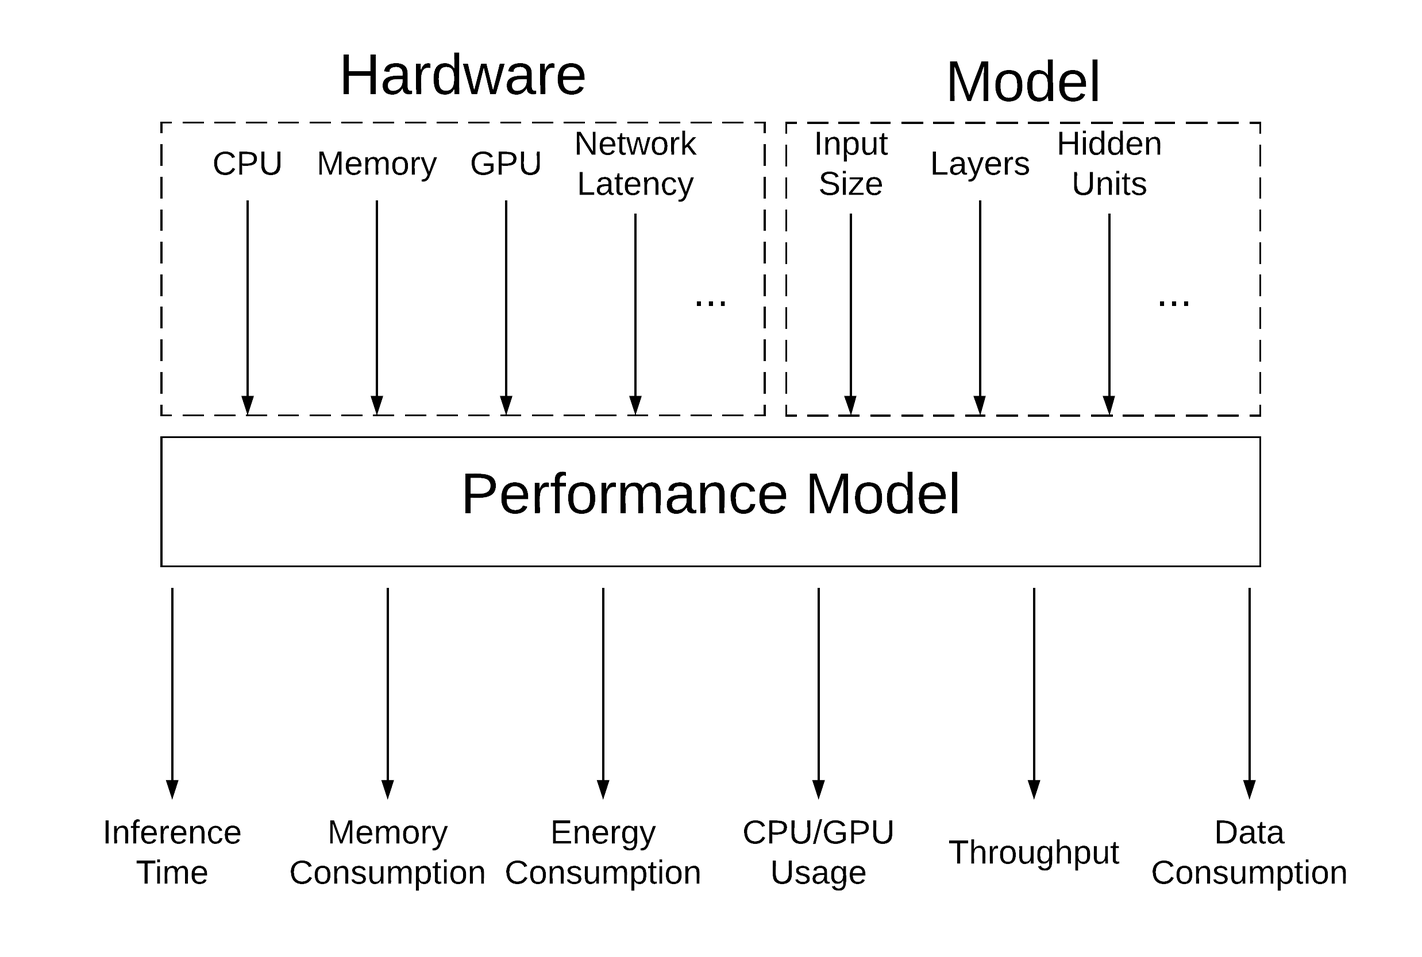
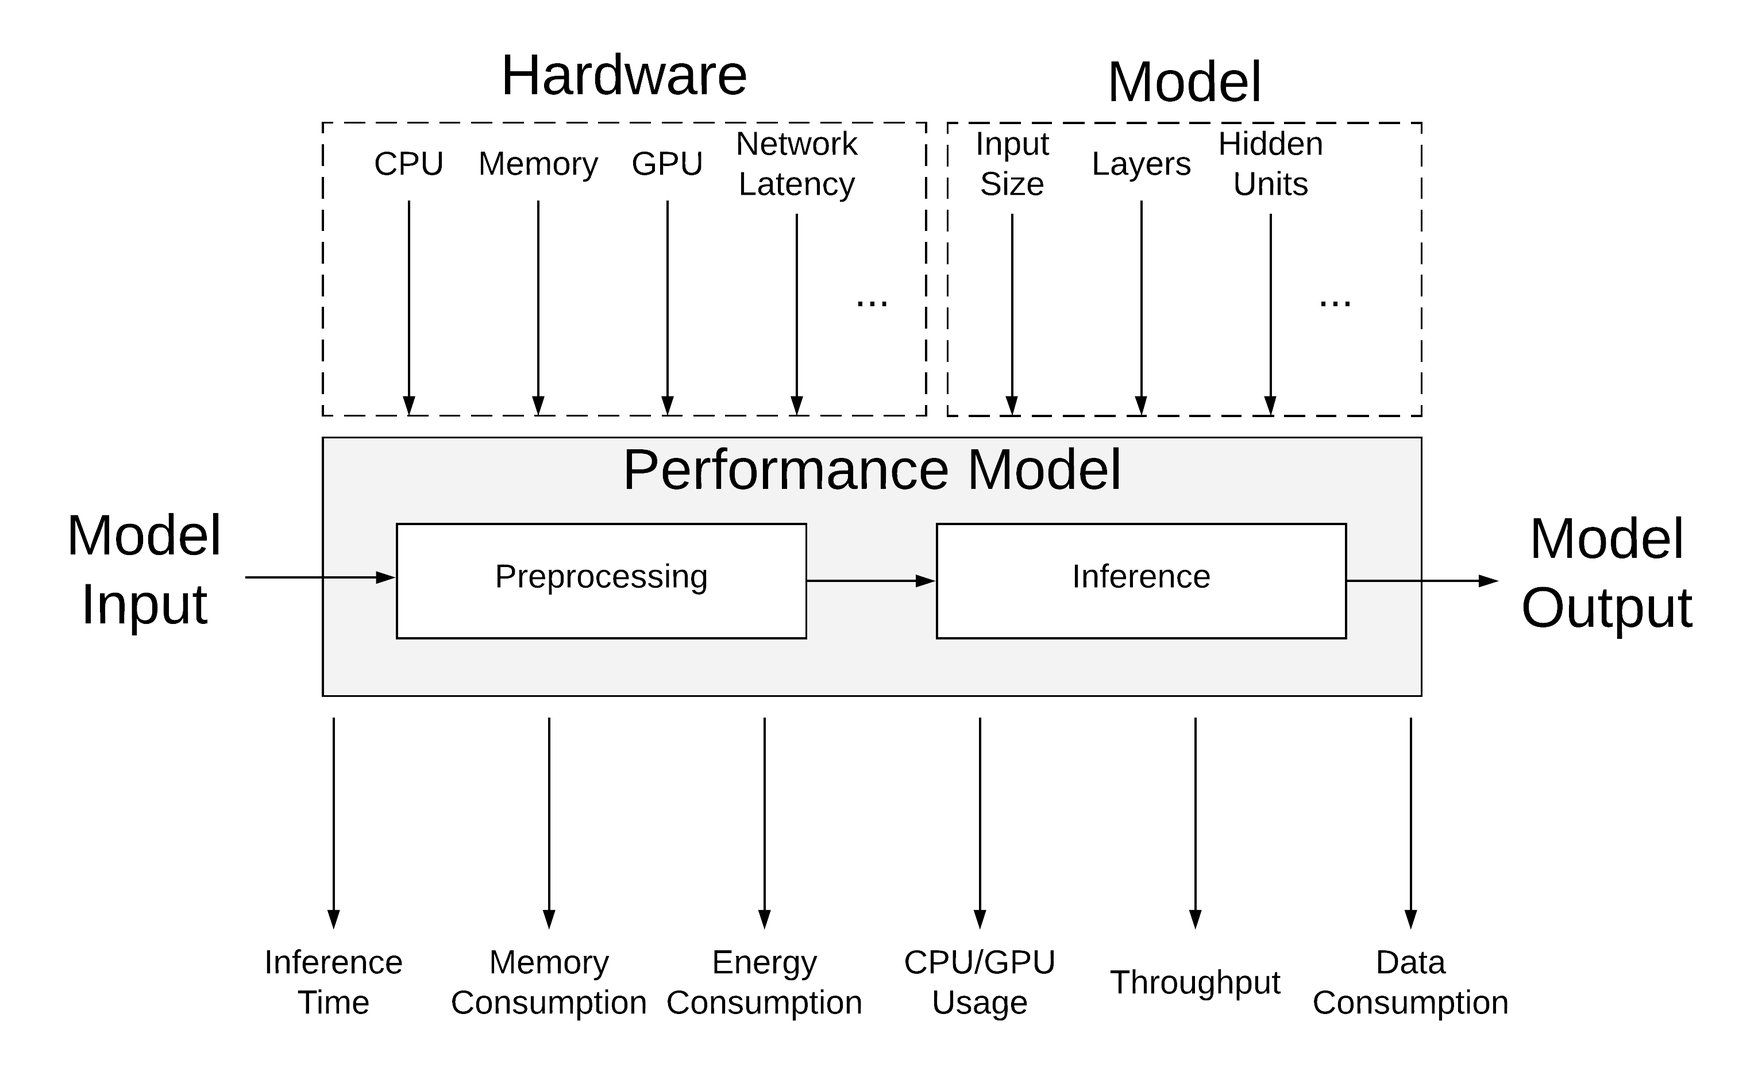
commit 5.12.18

diff --git a/kapitel1.tex b/kapitel1.tex
@@ -3,26 +3,26 @@
 
 %%ADD: android application
 
-With the success in the past years in the field of deep learning models, for example in image recognition with the help convolutional neural networks, AI applications on edge devices such as cars and smartphones using these models have become more popular and viable.
-But as the accuracy of these models has risen, the computational demands of them has also and this has taken a toll on the performance on these models apart from the accuracy, in particular on aspects such as inference time, memory usage, energy consumption, CPU usage and throughput. 
-While inference time and throughput are the most essential metrics to ensure realtime AI, memory usage, energy consumption and CPU usage are also important in order to avoid that one application occupies the whole system or uses too much energy.
-This is a concern especially for edge devices, where hardware or energy with mobile devices is often limited and that is why the question arose whether the models should be deployed directly on the edge devices or on a cloud-backend where more computational power is available. 
-%To answer this question this thesis proposes a performance model which points out the trade-offs of these two deployment options and after several experiments gives recommendations that support users in their decision to select the right model and hardware configuration.
+With success in the past years in the field of deep learning models, for example in image recognition with the help convolutional neural networks, AI applications on edge devices such as cars and smartphones using these models have become more popular and viable.
+However, as the accuracy of these models has risen, the computational demands of them has also, and this has taken a toll on the performance on these models apart from the accuracy, in particular on aspects such as inference time, memory usage, energy consumption, CPU usage and throughput. 
+While inference time and throughput are the essential metrics to ensure real-time AI, memory usage, energy consumption and CPU usage are also crucial in order to avoid that one application occupies the whole system or uses too much energy.
+This is a concern especially for edge devices, where hardware or energy with mobile devices is often limited, and that is why the question arose whether the models should be deployed directly on the edge devices or on a cloud-backend where more computational power is available. 
 
-In order to support users in decision to select the right deployment option this thesis proposes a performance model supported by measurements conducted in real life environments.
-Therefore the two major factors on the performance are examined, the hardware specification of the deployment environment and the specification of the deep learning model. 
-There are many different neural network types like convolutional neural network or recurrent neural network, that use different operations and thus have different impacts on performance.
-For example in the case of convolutional neural networks the number of convolutional/fully-connected layers have an impact on inference time, since more layers result in more matrix multiplications needed to get a prediction.
+In order to support users in the decision to select the right deployment option this thesis proposes a performance model supported by measurements conducted in real life environments.
+Therefore the two significant factors on the performance are examined, the hardware specification of the deployment environment and the specification of the deep learning model. 
+There are many different neural network types like convolutional neural network or recurrent neural network that use different operations and thus have different impacts on performance.
+For example, in the case of convolutional neural networks (CNN), the number of convolutional/fully-connected layers have an impact on inference time, since more layers result in more matrix multiplications needed to get a prediction.
+Another aspect is the preprocessing step, which is needed to transform the input into the format required by the model. In the case of CNNs these steps often consist of image resizing and rescaling.
 This rich variety of configurations also applies to the hardware aspects, where in addition to better CPUs and GPUs a various number of specific accelerators such as TPU, neuromorphic co-processors, FPGA has been developed for both edge and cloud.
 
 
 
 
-To obtain real measurement of the above mentioned performance metrics, multiple experiments are performed, using  using state of the art image recognition models and hardware component. Therefore we developed a benchmark android application, where images can be selected and these images then get classified either on the cloud-backend or on the edge device itself.
-TensorFlow Serving and TensorFlow Lite, both open-source, will service as the example frameworks for these experiments, as they support the deployment the deep learning models to a cloud-backend (TensorFlow Serving) or directly to edge devices (TensorFlow Lite).
+To obtain real measurement of the above mentioned performance metrics, multiple experiments are performed, using state of the art image recognition models and hardware component. Therefore we developed a benchmark android application, where images can be selected, and these images then get classified either on the cloud-backend or on the edge device itself.
+TensorFlow Serving and TensorFlow Lite, both open-source, will serve as the example frameworks for these experiments, as they support the deployment the deep learning models to a cloud-backend (TensorFlow Serving) or directly to edge devices (TensorFlow Lite).
 
 
 \section{Structure of the Thesis}
-The rest of this thesis is structured as follows: Chapter 2 provides an outline over existing related work on this topic. Next, a methodology in the form of a performance model, that characterizes the deployment is proposed.
-Section 3 deals with the experiments, their design, execution and the evaluation of the results
+The rest of this thesis is structured as follows: Chapter \ref{chap:relatedWork} provides an outline over existing related work on this topic. Next, a methodology in the form of a performance model, that characterises the deployment is proposed.
+Chapter \ref{chap:experiments} deals with the experiments, their design, execution and evaluation of the results
 Finally, this thesis concludes with a conclusion and future work related to this thesis.

diff --git a/Bilder/table_test.tex b/Bilder/table_test.tex
@@ -1,0 +1,26 @@
+%%Always replace all -s
+
+\begin{tabular}{llllllllllllllll}
+\toprule
+                  &      &           &      &      & batch\_size &    GPU &  prepro\_latency & prepro\_memory\_consumed & prepro\_CPU\_usage & inference\_server\_latency & inference\_total\_latency & inference\_memory\_consumed & inference\_CPU\_usage & inference\_network\_consumption\_up & inference\_network\_consumption\_down \\
+model & inf\_mode & image\_size & prepro\_flag & NNAPI &            &        &                 &                        &                  &                          &                         &                           &                     &                                  &                                    \\
+\midrule
+mobilenet\_v2\_quant & EDGE & 1155x1732 & EDGE & True &          1 &  False &    51.6 (7.765) &         162.88 (2.413) &    14.74 (1.491) &                0.0 (0.0) &            13.0 (1.871) &            165.94 (1.971) &       15.16 (3.004) &                        0.0 (0.0) &                          0.0 (0.0) \\
+                  &      & 1633x2449 & EDGE & True &          1 &  False &  103.8 (49.555) &         185.92 (3.397) &    14.98 (2.313) &                0.0 (0.0) &            10.8 (0.447) &            189.42 (2.516) &       16.54 (2.617) &                        0.0 (0.0) &                          0.0 (0.0) \\
+                  &      & 2309x3464 & EDGE & True &          1 &  False &  181.8 (30.874) &          242.2 (25.69) &    16.38 (3.933) &                0.0 (0.0) &            13.2 (2.387) &            233.16 (3.495) &        15.0 (1.225) &                        0.0 (0.0) &                          0.0 (0.0) \\
+                  &      & 3266x4899 & EDGE & True &          1 &  False &  218.8 (46.805) &         323.12 (2.165) &     16.2 (3.347) &                0.0 (0.0) &            12.4 (2.408) &            324.88 (1.355) &       17.32 (1.178) &                        0.0 (0.0) &                          0.0 (0.0) \\
+slim\_inception\_v4 & EDGE & 1155x1732 & EDGE & True &          1 &  False &   63.2 (12.133) &          161.2 (8.674) &    17.34 (2.283) &                0.0 (0.0) &          254.8 (10.616) &            317.26 (6.166) &       17.74 (2.651) &                        0.0 (0.0) &                          0.0 (0.0) \\
+                  &      & 1633x2449 & EDGE & True &          1 &  False &  146.6 (74.965) &         189.02 (6.376) &      17.0 (3.24) &                0.0 (0.0) &          282.0 (21.366) &           339.52 (14.283) &        15.6 (1.673) &                        0.0 (0.0) &                          0.0 (0.0) \\
+                  &      & 2309x3464 & EDGE & True &          1 &  False &  218.8 (39.877) &          237.3 (5.245) &    14.96 (2.076) &                0.0 (0.0) &          262.0 (20.603) &            393.16 (4.614) &       16.76 (1.868) &                        0.0 (0.0) &                          0.0 (0.0) \\
+                  &      & 3266x4899 & EDGE & True &          1 &  False &  202.8 (11.054) &         335.72 (1.777) &     14.2 (0.447) &                0.0 (0.0) &          282.2 (15.595) &            489.84 (1.846) &       15.16 (2.252) &                        0.0 (0.0) &                          0.0 (0.0) \\
+\bottomrule
+\end{tabular}
+%%THIS IS NEEDED FOR NICER COLUMN NAMES
+\begin{comment}
+\begin{tabular}{lllllll|lll|llllll}
+\toprule
+                  &       &      &           & batch\_size &   GPU & NNAPI &  prepro\_latency & prepro\_memory & prepro\_CPU\_usage & inf\_server\_latency & inf\_total\_latency & inf\_memory & inf\_CPU & inf\_network\_up & inf\_network\_down \\
+model & inf\_mode & prepro\_flag & image\_size &            &       &       &                 &                        &                  &                          &                         &                           &                     &                                  &                                    \\
+\midrule
+\end{tabular}
+\end{comment}

diff --git a/kapitel3.tex b/kapitel3.tex
@@ -1,4 +1,5 @@
 \chapter{Methodology}
+\label{chap:methodology}
 In this section a performance model for understanding the runtime characteristics of deep learning models is outlined. To understand these characteristics, the underlying factors that affect it need to be understood first. 
 
 
@@ -68,21 +69,23 @@ GRU, LTSM
 
 
 \section{Performance Model}
-All the aspects of both hardware and model have impact on the performance, thus are the inputs of the performance model (see figure \ref{fig:perfmodel}). These inputs affect various performance metrics, of which inference time and throughput are the most important ones for realtime AI applications. But as the hardware on edge devices is limited and most of the times many applications need to run in parallel, low usages of the other metrics are vital as well.
-%5WHAT ABOUT ACCURACY?
-While accuracy is one of the most important metrics for computer vision networks, it is only affected by the characteristics of the model and not by the deployment environment. Therefore we do not focus on accuracy in this thesis.
+All the aspects of both hardware and model have an impact on the performance, thus are the inputs of the performance model (see figure \ref{fig:perfmodel}). These inputs affect various performance metrics, of which inference time and throughput are the most important ones for real-time AI applications. However, as the hardware on edge devices is limited and most of the times many applications need to run in parallel, low usages of the other metrics are vital as well.
+While accuracy is one of the most critical metrics for computer vision networks, it is only affected by the characteristics of the model and not by the deployment environment. Therefore we do not focus on accuracy in this thesis.
+To get the model output for a given model input two steps are needed. The first one is the preprocessing step and transforms a given input into the format that is required by the deep learning model. Only then the actual inference operation can be performed to obtain the model output. Therefore the preprocessing takes a vital part in the general inference process and should be included in the performance model.
 \begin{figure}[H]
 \centering
-\includegraphics[width=0.9\textwidth]{./Bilder/trade_offs.png}
+\includegraphics[width=0.99\textwidth]{./Bilder/trade_offs.png}
 \caption{Performance Model}
 \label{fig:perfmodel}
 \end{figure}
 \subsection{Performance Metrics}
-Several metrics are important to measure the inference performance.
+Several metrics are important to measure the performance of the preprocessing and the inference steps. 
  
 \subsubsection{Inference Time}
+%%WALL CLOCK TIME ADD HERE
 Inference time describes the time needed from requesting a prediction from a deep learning model given an specific input until getting the prediction.
 This metrics is essential for the performance, since AI application often need predictions in realtime.
+\subsubsection{Preprocessing Time}
 \subsubsection{Energy Consumption}
 This metric is particular important for mobile edge devices, since they often are powered by batteries with a limited lifespan. So if the inference process of a model consumes too much energy, the application using the model is not viable.
 \subsubsection{CPU Usage}
@@ -90,7 +93,7 @@ Since the inference operation is most of the time not the only process running o
 \subsubsection{Memory Usage}
 Similar to CPU usage, inference should not occupy the whole memory of system or even demand more memory than the available memory of a edge devices.
 \subsubsection{GPU Usage}
-If a GPU or a another accelator is available their usage is of interest.
+If a GPU or a another accelerator is available their usage is of interest.
 \subsubsection{Throughput}
 In order to accomplish realtime AI a high enough throughput is essential. Therefore the number of processed predictions per second is a valuable metric.
 \subsubsection{Data Consumption}

diff --git a/kapitel4.tex b/kapitel4.tex
@@ -1,4 +1,5 @@
 \chapter{Experiments}
+\label{chap:experiments}
 This chapter deals with the experiments, their design, execution and results.
 \section{Experimental Design}
 This section deals the specification of the Android benchmark app, used hardware, used framework, used model and how the measurements are conducted. 
@@ -64,7 +65,7 @@ Inception V4 is a large image classification model with high accuracy but also w
 
 For the experiments we both evaluate the normal float version as well as the quantized version using int8.
 \subsection{Android Benchmark Application}
-In order to perform the inference process on the edge devices we developed a benchmark android application using Kotlin. 
+In order to perform the inference process on the edge devices we developed a benchmark android application written in Kotlin. 
 
 \begin{figure}[H]
 \centering
@@ -74,13 +75,20 @@ In order to perform the inference process on the edge devices we developed a ben
 \end{figure}
 In figure \ref{fig:app} the workflow to get perform the inference is seen. First, a image needs to be selected, either an existing one from the gallery or a new one shot with the camera of the phone. Afterwards the image classification model needs to be chosen. Now the user selects whether the inference should be performed on the cloud-backend or directly on the edge device, in this case a android phone. Afterwards the selected image needs to be preprocessed according to the selected model, inference mode (edge/cloud) and for the case of cloud inference, if the image should be preprocessed on the cloud or on the edge. Finally the inference is performed resulting and after finishing the labels with the highest probabilities are presented to the user as the prediction for the given image. The image preprocessing step and the inference step are seperated to allow better measurements of these steps.
 \subsubsection{Edge Inference}
-
+Preprocessing?
 \subsubsection{Cloud Inference}
 \section{Instantiation}
 We run parameter configuration 100 times to reduce 
 We change the configurations of the following parameters:
+%%%293,performance analysis buch
 \paragraph{Image Size}
-Image Size: We evaluate the performance of the small(YxY), medium(YxY) and large(YxY) images. This way the effect of image size on the performance of the preprocessing step can assessed.
+Image Size: We evaluate the performance of the 2MP($1732\times1155$), 4MP($2449\times1633$), 8MP($3464\times2309$) and 16MP($4899\times3266$) images. This way the effect of image size on the performance of the preprocessing step can assessed. A picture of a cat (see figure \ref{fig:cat}) scaled to the different sizes will serve as the picture for the experiments.
+\begin{figure}[H]
+\centering
+\includegraphics[width=0.3\textwidth]{./Bilder/European_cat_02_16_mp.jpg}
+\caption{Example picture for the experiments \cite{cat}}
+\label{fig:cat}
+\end{figure}
 \paragraph{Batch Size}
 We experiment with the following batch sizes: 1, 2, 4 , 8, 16, 32, 64.
 \paragraph{NNAPI}
@@ -125,4 +133,13 @@ Android Studio Profiler provides a tool named Network Profiler, which displays a
     \item Was kann man aus Graphen schließen?
     \item Handlungsempfehlung
 \end{itemize}
+\begin{sidewaystable}
+
+
+    \centering
+\scalebox{0.5}{
+\input{./Bilder/table_test.tex}}
+\caption{Averages for all Metrics including standard deviation}
+
+\end{sidewaystable}
 \endinput 

diff --git a/abstract.tex b/abstract.tex
@@ -9,14 +9,12 @@
 
 %\noindent When deploying realtime AI applications, a crucial aspect is the decision whether to deploy the underlying deep learning models on edge devices or on a cloud-backend.
 %For the deployment of a model various things need to be considered, most importantly accuracy and inference time, but also energy consumption, memory consumption, throughput and retraining
-\noindent When deploying realtime AI applications, a crucial aspect is the decision whether to deploy the underlying deep learning models on edge devices or on a cloud-backend.
-For the model inference various things need to be considered, amongst other things computational demands,
-specialized hardware (GPU, TPU, neuromorphic co-processors, FPGA),
+\noindent When deploying real-time AI applications, a crucial aspect is the decision whether to deploy the underlying deep learning models on edge devices or on a cloud-backend.
+For the model inference various things need to be considered, amongst other things preprocessing, computational demands,
+specialised hardware (GPU, TPU, neuromorphic co-processors, FPGA),
 network latencies and energy consumption. Most of these aspects depend on both the model as well as the environment where the model is deployed. 
-In order to help with the optimal selection of cloud and edge inference to achieve realtime AI, this thesis proposes a performance model characterizing the deployment of a deep learning model and the resulting trade-offs.
-Based on this performance model, the most important trade-offs of the different deployment options get demonstrated by conducting multiple experiments using image classification as a use case. After the evaluation of these experiments, recommendations for the deployment are proposed.
-
-
+In order to help with the optimal selection of cloud and edge inference to achieve real-time AI, this thesis proposes a performance model characterising the deployment of a deep learning model and the resulting trade-offs.
+Based on this performance model, the most essential trade-offs of the different deployment options get demonstrated by conducting multiple experiments using image classification as a use case. After the evaluation of these experiments, recommendations for the deployment are proposed.
 
 
 

diff --git a/Bilder/tree.tex b/Bilder/tree.tex
@@ -1,0 +1,40 @@
+\documentclass[border=10pt]{standalone}
+\usepackage{tikz}
+\begin{document}
+\begin{tikzpicture}[sibling distance=10em,
+  param/.style={shape=rectangle,
+    draw, align=center,
+    top color=white, bottom color=grey!30},
+  conf/.style={shape=rectangle, rounded corners,
+    draw, align=center,
+    top color=white, bottom color=grey!20}  ]  ]
+    
+  \node[param] {Model}
+    child { node [conf]{Inception V4} }
+    child { node [conf]{Mobilenet V2}
+      child { node [param]{Batch Size}
+        child { node [conf]{1} }
+        child { node [conf]{2} 
+            child { node [param]{Image Size}
+                child { node [conf]{2MP}
+                child { node [param]{Inference Mode}
+                        child { node[conf] {Edge}
+                            child { node[param] {NNAPI usage}
+                                 child { node[conf] {Yes}}
+                                 child { node [conf]{No}}}}
+                        child { node [conf]{Cloud}
+                            }}}
+                child { node [conf]{4MP}
+                    }
+                child { node [conf]{8MP}
+                child { node [param]{Inference Mode}
+                        child { node [conf]{Cloud}
+                            child { node [param]{Preprocessing}
+                               child { node [conf]{On Edge}}
+                                child { node [conf]{On Cloud}}}}}}
+                child { node [conf]{16MP}}}}
+        child { node[conf] {4} }
+        child { node [conf]{...} }} }
+    child { node [conf]{Mobilenet V2 quantized} };
+\end{tikzpicture}
+\end{document}

diff --git a/kapitel2.tex b/kapitel2.tex
@@ -1,10 +1,11 @@
 \chapter{Related Work}
-This chapter will give a brief outline and evaluation of related work on the topic of performance evaluation of deep learning inference. These related papers can be divided into two subcategories, on the one hand papers that deal with the performance of deep learning models in general and on the other hand that deal with the trade-offs of either edge or cloud inference.
+\label{chap:relatedWork}
+This chapter will give a brief outline and evaluation of related work on the topic of performance evaluation of deep learning inference. These related papers can be divided into two subcategories, on the one hand, papers that deal with the performance of deep learning models in general and on the other hand that deal with the trade-offs of either edge or cloud inference.
 \section{Performance of Model Inference}
 \subsection{Speed/accuracy trade-offs for modern convolutional object detectors}
 In \cite{DBLP:journals/corr/HuangRSZKFFWSG016} the authors provide a guide for selecting the right convolutional object detection architecture for the desirable speed/memory/accuracy. To demonstrate this trade-offs the authors test various popular models such as Inception v2, MobileNet or Resnet 101. To create the benchmarks, "a machine with 32GB RAM,
 Intel Xeon E5-1650 v2 processor and an Nvidia GeForce
-GTX Titan X GPU card \cite"{DBLP:journals/corr/HuangRSZKFFWSG016} gets used.
+GTX Titan X GPU card \cite{DBLP:journals/corr/HuangRSZKFFWSG016} gets used.
 
 
 \subsection{Cloud-based or On-device:

diff --git a/ross17.tex b/ross17.tex
@@ -16,7 +16,8 @@
 \usepackage{graphicx} % Einfügen von Grafiken  - für PDF-Latex: .pdf und .png (.jpg möglich, sollte aber vermiedenwerden)
 \usepackage[hyphens]{url}          % URL's (z.B. in Literatur) schöner formatieren
 \usepackage{hyperref} % sorgt für für Hyperlinks in PDF-Dokumenten
-
+\usepackage{rotating}
+\usepackage{verbatim}
 \usepackage{float}
 \usepackage{placeins}
 \usepackage[table,xcdraw]{xcolor}

diff --git a/kapitel5.tex b/kapitel5.tex
@@ -1,4 +1,5 @@
 \chapter{Conclusion}
-
+\label{chap:conclusion}
 \section{Future Work}
+
 \endinput 
